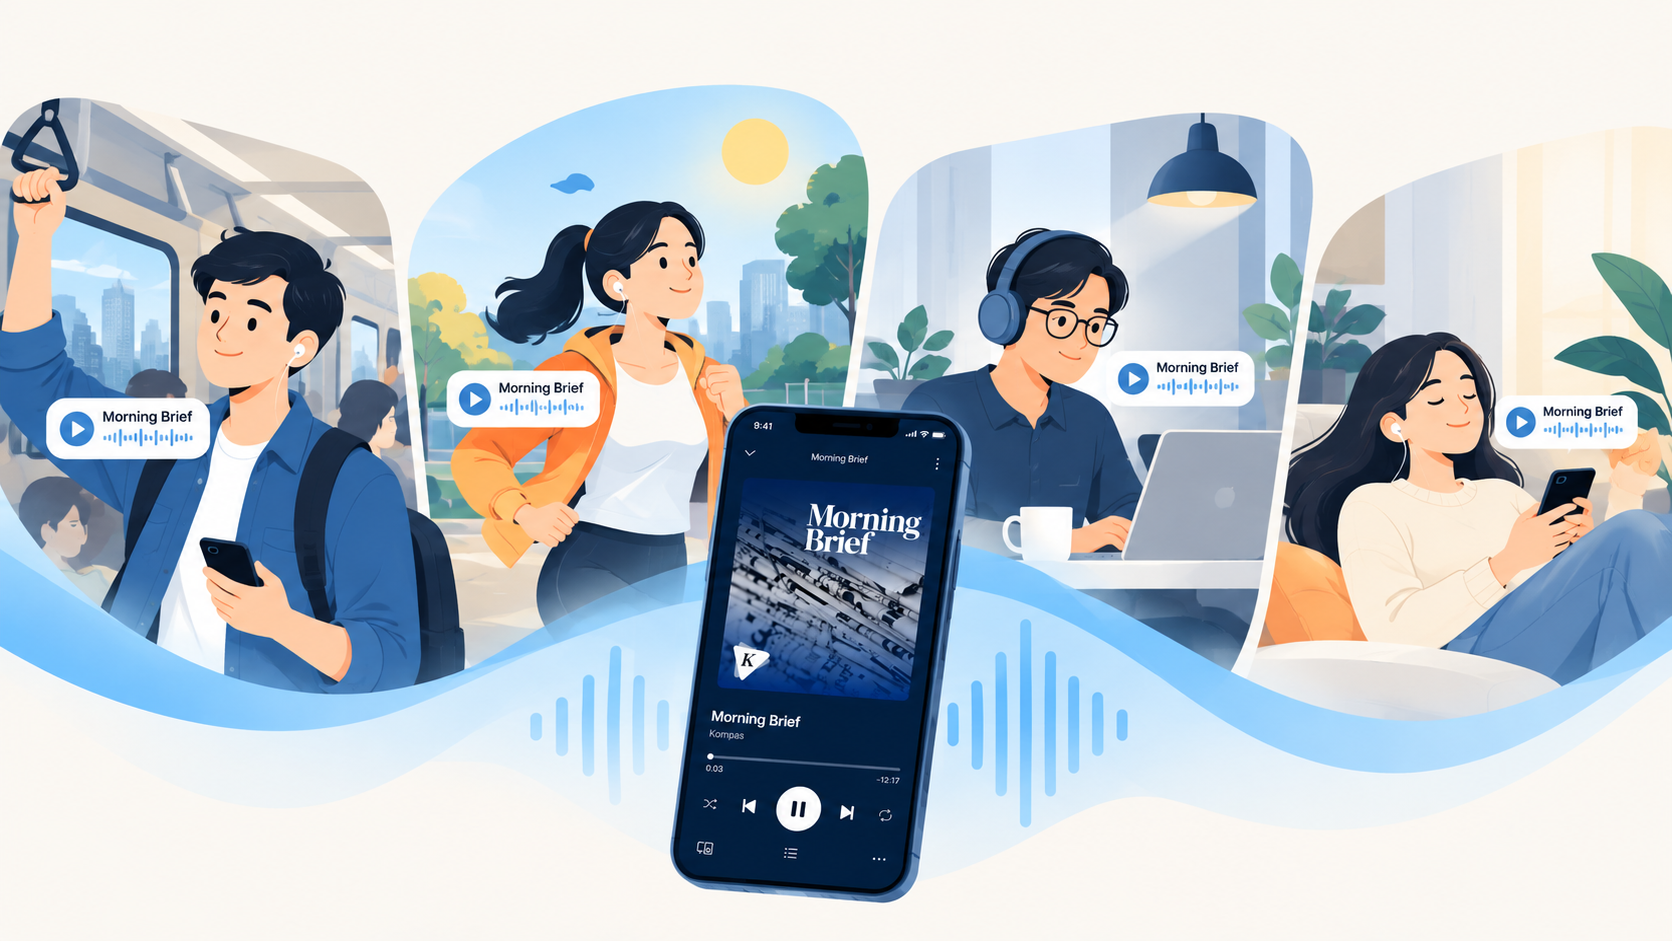
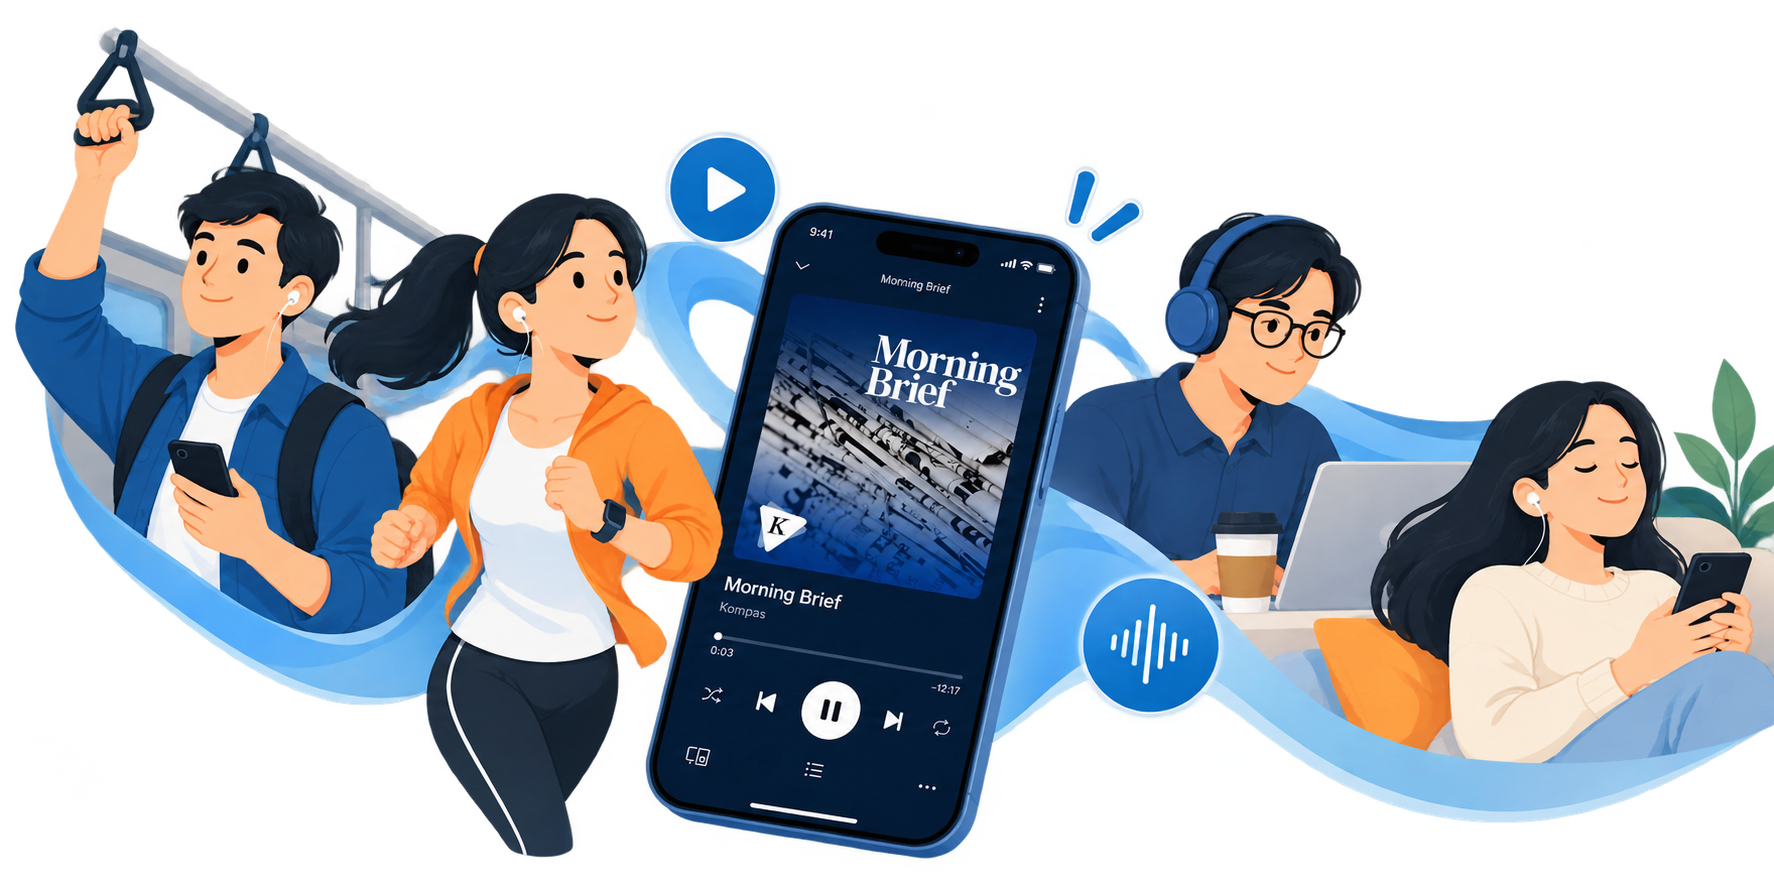
Use transparent daily routine artwork

diff --git a/index.html b/index.html
@@ -9,7 +9,7 @@
   <link rel="preconnect" href="https://fonts.googleapis.com">
   <link rel="preconnect" href="https://fonts.gstatic.com" crossorigin>
   <link href="https://fonts.googleapis.com/css2?family=Inter:ital,opsz,wght@0,14..32,100..900;1,14..32,100..900&display=swap" rel="stylesheet">
-  <link rel="stylesheet" href="styles.css?v=20261026-daily-visual">
+  <link rel="stylesheet" href="styles.css?v=20261026-daily-cutout">
 </head>
 <body>
   <main id="top">
@@ -97,7 +97,7 @@
         <div class="trust"><div class="trust-icon" aria-hidden="true">K<span>✦</span></div><div><p class="section-kicker">DIPILIH UNTUK ANDA</p><h3>Dikurasi Redaksi KOMPAS.com</h3><p>Bukan sekadar lebih banyak berita, tetapi informasi yang penting untuk Anda ketahui. Pilihannya sudah disusun oleh redaksi, agar Anda bisa langsung mengikuti intinya.</p></div><span class="trust-seal">JERNIH<br>TEPERCAYA<br>RELEVAN</span></div>
           </div>
           <figure class="daily-product-visual">
-            <img src="morningbrief-daily-routine.png" width="1672" height="941" alt="Ilustrasi orang mendengarkan MorningBrief saat berkomuter, berolahraga, bekerja, dan bersantai" loading="lazy" decoding="async">
+            <img src="morningbrief-daily-routine.png" width="1774" height="887" alt="Ilustrasi orang mendengarkan MorningBrief saat berkomuter, berolahraga, bekerja, dan bersantai" loading="lazy" decoding="async">
           </figure>
         </div>
       </div>

diff --git a/styles.css b/styles.css
@@ -780,21 +780,21 @@ body{background:var(--tone-mint-pale);color:var(--tone-ink)}
 .daily-product-visual{
   width:100%;
   max-width:620px;
-  aspect-ratio:1672/941;
+  aspect-ratio:1774/887;
   align-self:center;
   justify-self:end;
-  overflow:hidden;
-  border:1px solid rgba(255,255,255,.84);
-  border-radius:22px;
-  background:#fffaf2;
-  box-shadow:0 26px 60px rgba(18,59,87,.14),0 8px 22px rgba(18,59,87,.08)
+  overflow:visible;
+  border:0;
+  border-radius:0;
+  background:transparent;
+  box-shadow:none
 }
 .daily-product-visual img{
   display:block;
   width:100%;
   height:100%;
-  object-fit:cover;
-  filter:none
+  object-fit:contain;
+  filter:drop-shadow(0 22px 24px rgba(18,59,87,.14))
 }
 @media(max-width:1100px){
   .daily-layout{
@@ -807,7 +807,6 @@ body{background:var(--tone-mint-pale);color:var(--tone-ink)}
   .daily-product-visual{
     width:100%;
     max-width:620px;
-    justify-self:start;
-    border-radius:16px
+    justify-self:start
   }
 }
